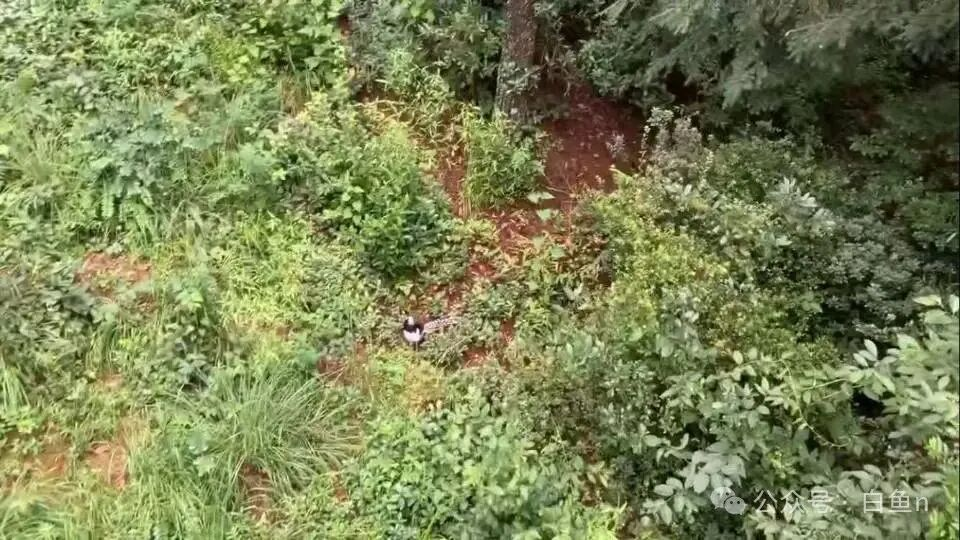
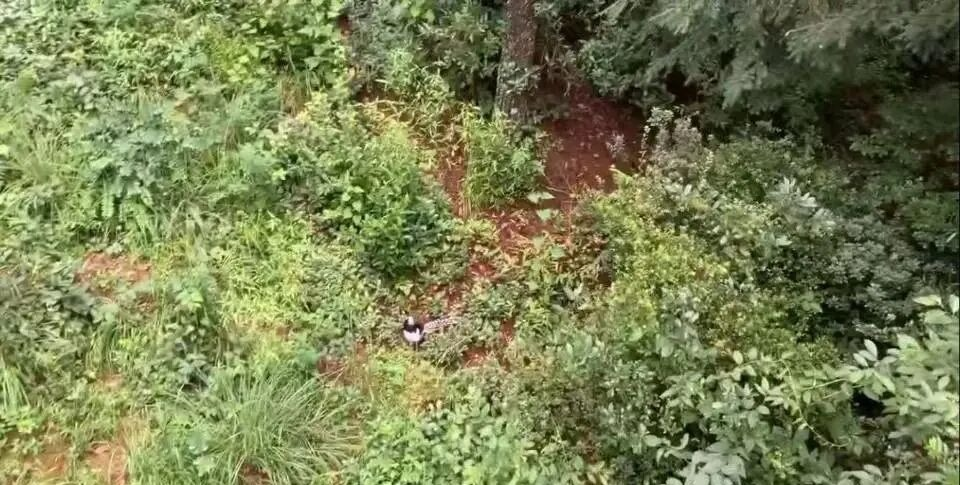
Move Baiyun images to essay end

diff --git a/src/styles/custom.css b/src/styles/custom.css
@@ -265,7 +265,8 @@ mark {
 .baiyun-caption {
     margin-top: 0.75rem;
     color: var(--sl-color-gray-3);
-    font-size: 0.8rem;
+    font-family: "Songti SC", SimSun, "Noto Serif SC", serif;
+    font-size: 0.78rem;
     line-height: 1.8;
     text-indent: 0 !important;
 }